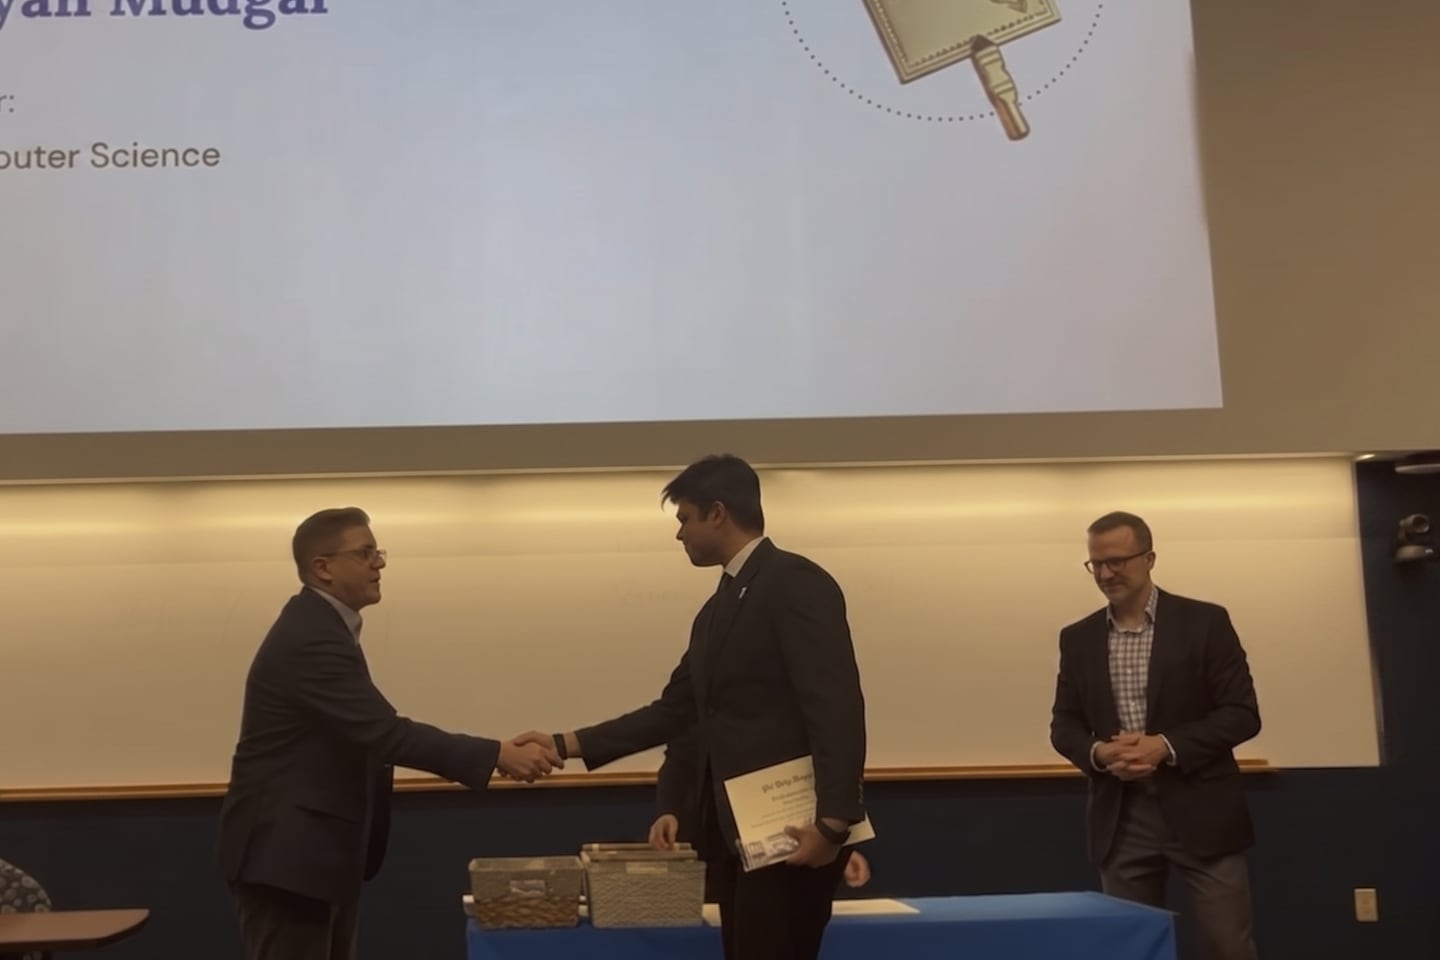
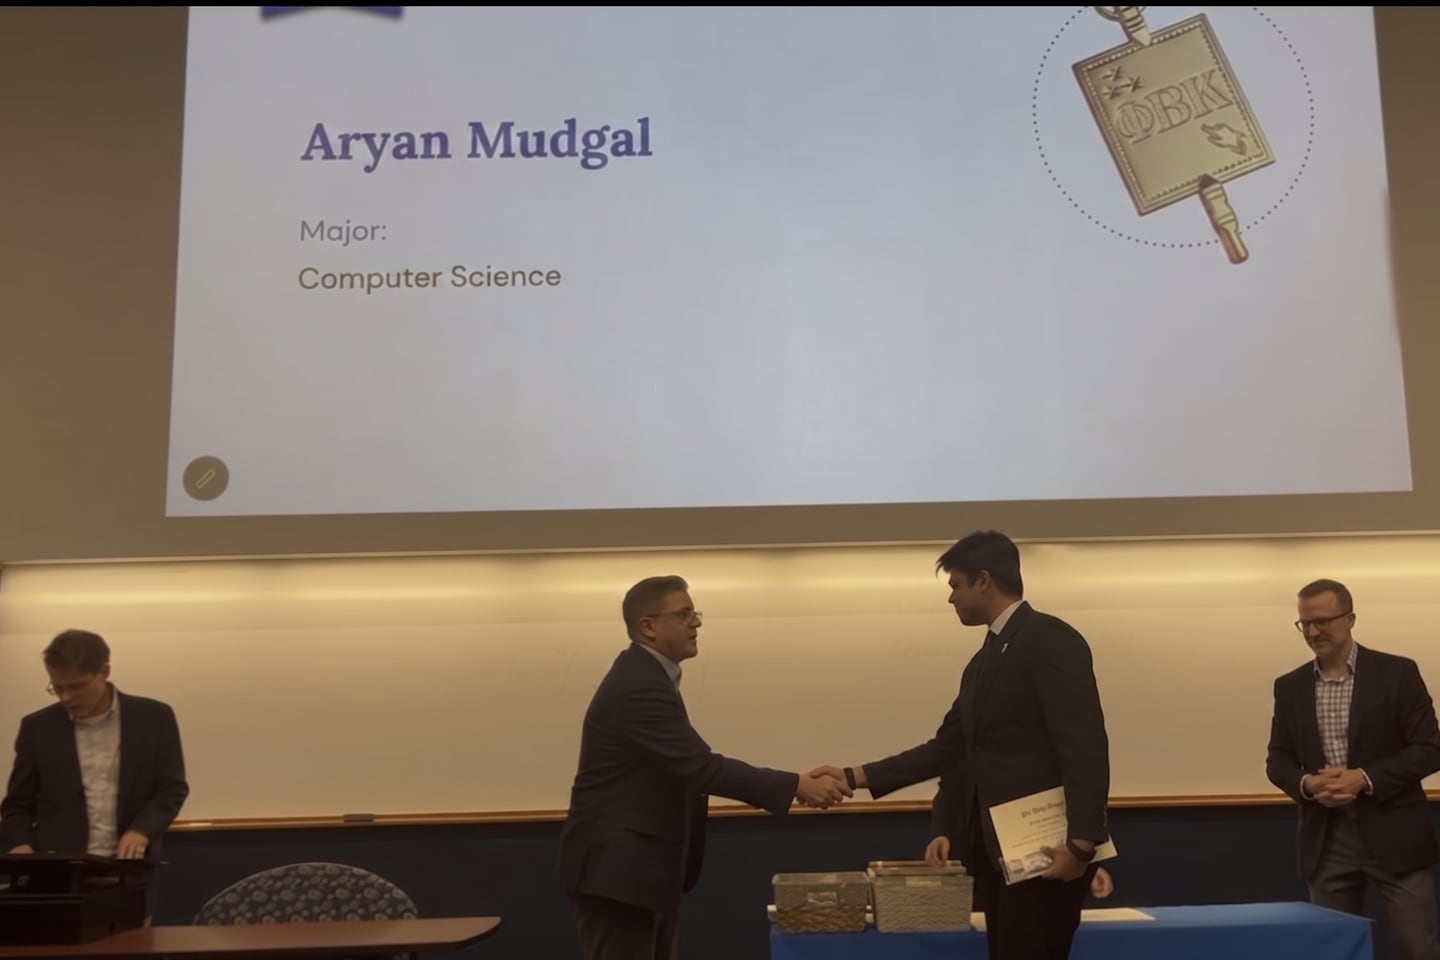
feat: letterbox the StreamFair stage photo and keep the Phi Beta Kappa slide legible

diff --git a/src/data/rooms.ts b/src/data/rooms.ts
@@ -76,7 +76,7 @@ export const rooms: readonly Room[] = [
     id: "streamfair",
     source: "CMU-win/cmu-streamfair-stage.jpg",
     focal: { x: 0.506, y: 0.625 },
-    minCover: 0.55,
+    fit: "contain",
     alt: "Aryan and two teammates on stage at TartanHacks under a slide reading RIPPLE 1st place, Water Mellon",
     caption: "TartanHacks, Carnegie Mellon, February 2026. 1st, Ripple track.",
     receipt: { label: "GitHub", href: "https://github.com/aryanmudgal-tech/StreamFair" },
@@ -128,8 +128,8 @@ export const rooms: readonly Room[] = [
   {
     id: "pbk",
     source: "phi-beta-kappa.png",
-    focal: { x: 0.615, y: 0.6 },
-    minCover: 0.85,
+    focal: { x: 0.45, y: 0.6 },
+    minCover: 1,
     alt: "Aryan shaking hands at the Phi Beta Kappa induction while a slide reads Aryan Mudgal, Major: Computer Science",
     caption: "University at Buffalo, 2026. Phi Beta Kappa induction.",
     receipt: { label: "UB Arts and Sciences", href: "https://arts-sciences.buffalo.edu/phi-beta-kappa.html" },
